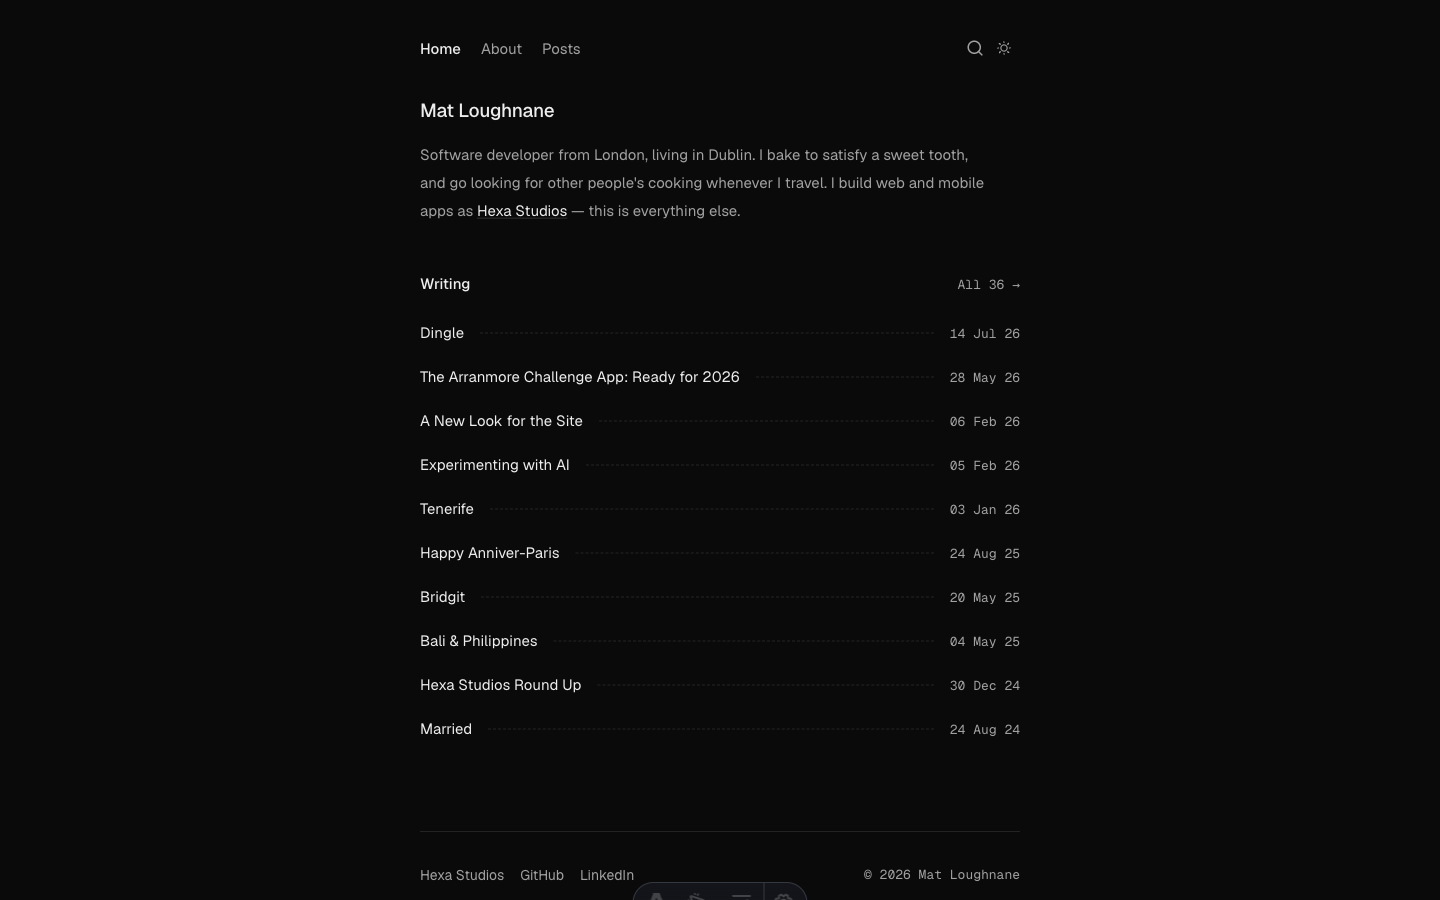
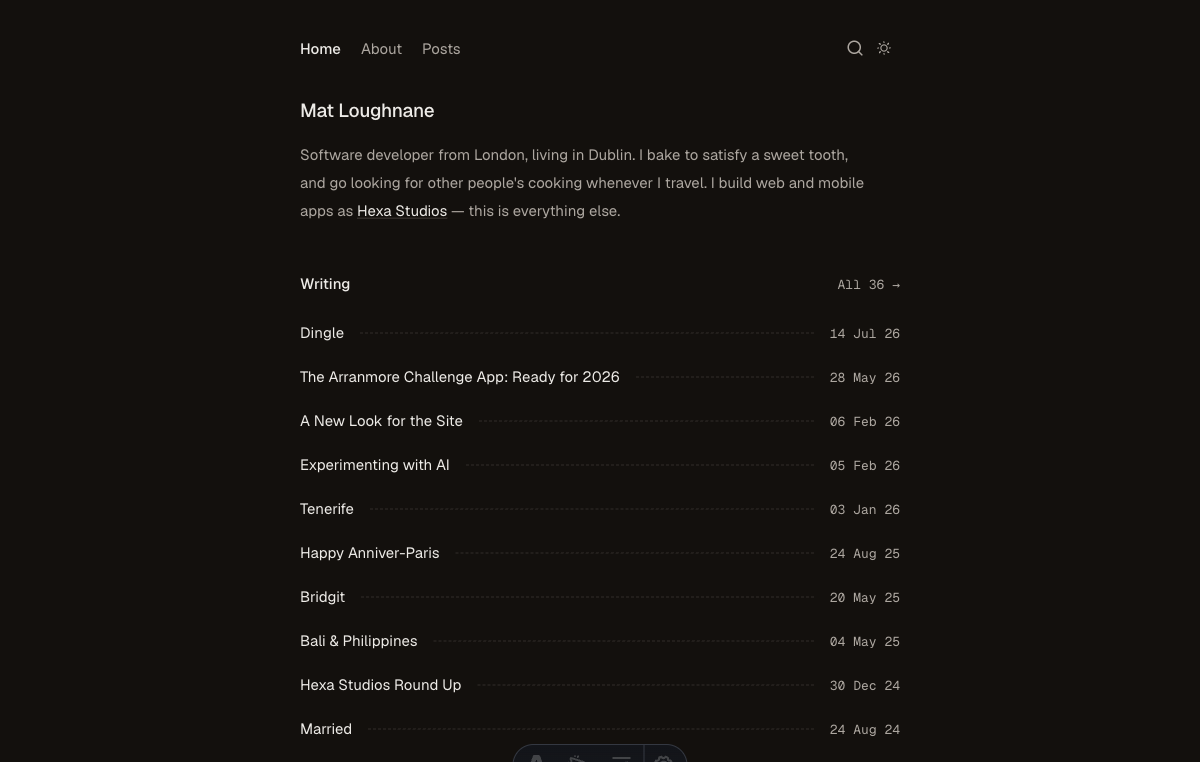
feat(colorize): lamplit paper — warmth in the neutrals, not in fields
An atmospheric colour pass on the standard branch. The surface shifts off pure
white and pure black onto a warm near-white and a warm charcoal, with every
neutral carrying a little chroma (0.004–0.014). The red stays the only true
accent and is not spent any more freely than before.

Moved to OKLCH so lightness and chroma move predictably, and composed the dark
theme on its own elevation ladder rather than inverting the light one.

Stated deliberately: the craft floor flags "warm off-white × red" as a current
cliché. The brief pinned an atmospheric warm shift and a pinned brief wins, so
the tint is held an order of magnitude below cream — L 0.992 / C 0.004, not
L 0.96 / C 0.03 — to read warm rather than beige. Noted in the contract.

All eight foreground/background pairs computed rather than eyeballed; lowest is
4.84:1 (muted text on the elevated row), so every pair clears AA body text.

diff --git a/src/styles/global.css b/src/styles/global.css
@@ -11,25 +11,34 @@
 }
 
 /* ── Palette ───────────────────────────────────────────────────────────────
-   Near-monochrome with a single accent, which is the canon this build was
-   commissioned to execute. The accent is the site's existing red, lightened
-   for the dark theme so it clears contrast on a near-black ground. */
+   Lamplit paper: an anglepoise on a desk at night, not a cream editorial page.
+   The colour lives in the neutrals — every surface and ink carries a little
+   warmth (chroma 0.004–0.014) while the ground stays at near-white lightness,
+   so the page reads warm rather than beige. One deep red, kept rare.
+
+   Stated deliberately: the craft floor flags "warm off-white × red" as a
+   current cliché. The brief pinned an atmospheric warm shift, and a pinned
+   brief wins — but the tint is held an order of magnitude below cream
+   (L 0.992 / C 0.004, not L 0.96 / C 0.03) precisely to stay clear of it.
+
+   OKLCH so lightness and chroma move predictably; dark is composed on its own
+   elevation ladder rather than inverted from light. */
 :root {
-    --bg: #ffffff;
-    --bg-subtle: #fafafa;
-    --fg: #111111;
-    --fg-muted: #6b6b6b;
-    --line: #e6e6e6;
-    --accent: #9a0d1b;
+    --bg: oklch(0.992 0.004 75);
+    --bg-subtle: oklch(0.97 0.007 75);
+    --fg: oklch(0.235 0.01 55);
+    --fg-muted: oklch(0.53 0.014 58);
+    --line: oklch(0.9 0.009 75);
+    --accent: oklch(0.42 0.155 25);
 }
 
 .dark {
-    --bg: #0a0a0a;
-    --bg-subtle: #121212;
-    --fg: #ededed;
-    --fg-muted: #a1a1a1;
-    --line: #232323;
-    --accent: #f36d63;
+    --bg: oklch(0.175 0.008 60);
+    --bg-subtle: oklch(0.225 0.01 60);
+    --fg: oklch(0.94 0.006 80);
+    --fg-muted: oklch(0.73 0.012 70);
+    --line: oklch(0.295 0.01 60);
+    --accent: oklch(0.72 0.14 28);
 }
 
 @theme inline {
